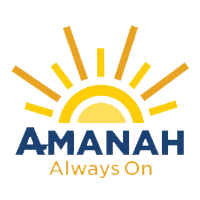
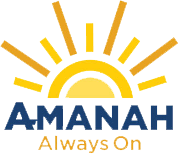
Update sponsors

Changed region(s): [[0.0279, 0.0, 1.0, 1.0], [0.0, 0.2597, 0.2514, 0.4675], [0.1955, 0.961, 0.2235, 0.987]]

diff --git a/css/style.css b/css/style.css
@@ -2445,54 +2445,59 @@ section{
 .sponsor-logos .platinum a img {
 	max-height: 300px;
 	max-width: 400px;
-	margin: 1.5em;
+	margin: 1.75em;
 }
 
 .sponsor-logos .gold a img {
 	max-height: 188px;
 	max-width: 250px;
-	margin: 1.5em;
+	margin: 1.75em;
 }
 .sponsor-logos .silver a img {
 	max-height: 150px;
 	max-width: 200px;
-	margin: 1.5em;
+	margin: 1.75em;
 }
 .sponsor-logos .bronze a img {
 	max-height: 113px;
 	max-width: 150px;
-	margin: 1.5em;
+	margin: 1.75em;
 }
 .sponsor-logos .other a img {
 	max-height: 75px;
 	max-width: 100px;
-	margin: 1.5em;
+	margin: 1.75em;
 }
 
 @media(max-width:768px) {
 	#sponsors .section-header {
-		margin-bottom: 0.5em;
+		margin-bottom: 1.5em;
 	}
 	.sponsor-logos .platinum a img {
 		max-height: 225px;
 		max-width: 300px;
+		margin: 1.5em;
 	}
 
 	.sponsor-logos .gold a img {
 		max-height: 131px;
 		max-width: 175px;
+		margin: 1.5em;
 	}
 	.sponsor-logos .silver a img {
 		max-height: 113px;
 		max-width: 150px;
+		margin: 1.5em;
 	}
 	.sponsor-logos .bronze a img {
 		max-height: 86px;
 		max-width: 115px;
+		margin: 1.5em;
 	}
 	.sponsor-logos .other a img {
 		max-height: 56px;
 		max-width: 75px;
+		margin: 1.5em;
 	}
 }
 
